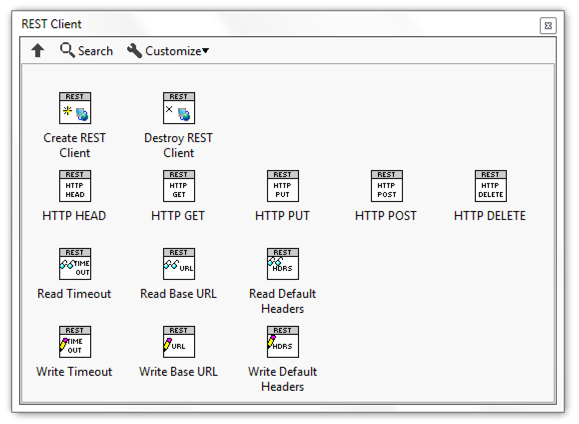
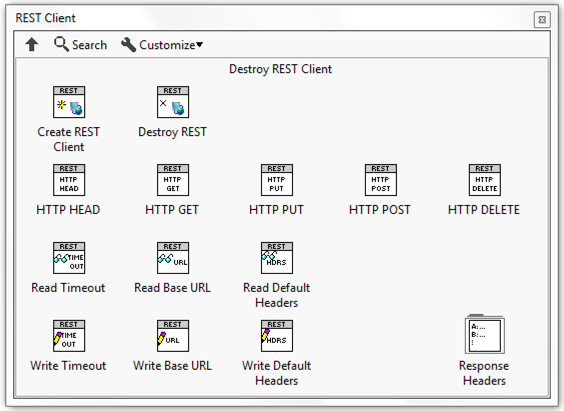
Updated README

diff --git a/README.md b/README.md
@@ -119,6 +119,28 @@ The VI provides multiple arguments for defining how to perform the HTTP request.
 The Default Headers specified upon creation of the JKI REST Client together with the request specific headers will all be 
 used for the HTTP request.
 
+### Destroy REST Client
+Closes REST Client instance and closes up all open HTTP connections.
+
+![Destroy REST Client](https://github.com/JKISoftware/JKI-REST-Client/raw/master/img/destroy-rest-client.png "Destroy REST Client")
+
+### Get Header By Name
+Gets a response HTTP header value by name.
+
+![Get Header By Name](https://github.com/JKISoftware/JKI-REST-Client/raw/master/img/get-header-by-name.png "Get Header By Name")
+
+The VI provides the following arguments.
+
+**Name** specifies the name of the HTTP header to get.
+
+### Get All Headers
+Gets all response HTTP headers.
+
+![Get All Headers](https://github.com/JKISoftware/JKI-REST-Client/raw/master/img/get-all-headers.png "Get All Headers")
+
+
+
+
 ## Contributing
 
 1. Fork it!
